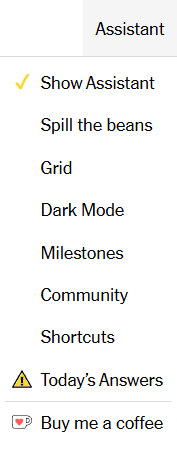
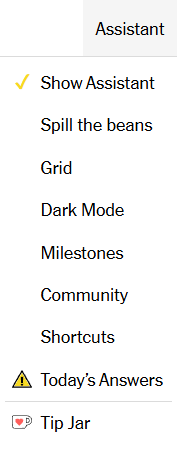
Website:  Buy me a coffee -> Tip Jar

Changed region(s): [[0.226, 0.9022, 0.9322, 0.9644]]

diff --git a/index.html b/index.html
@@ -64,7 +64,7 @@
 							<svg>
 								<use href="#icon-kofi"></use>
 							</svg>
-							<span>Buy me a coffee</span>
+							<span>Tip Jar</span>
 						</a>
 					</li>
 				</ul>
